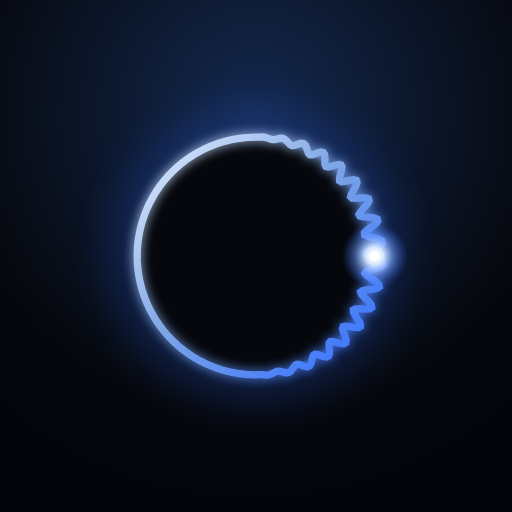
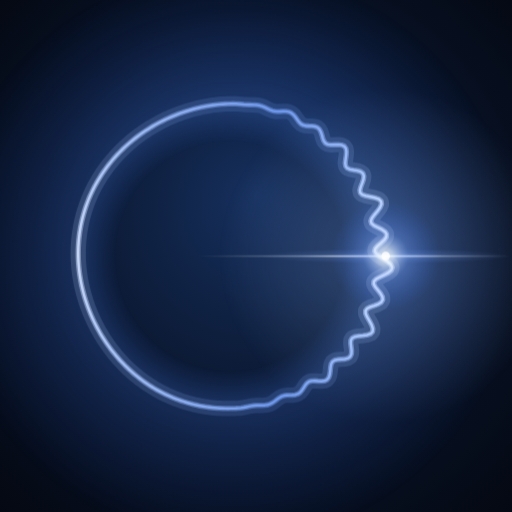
Quasar: ícones e cartão de compartilhamento com a marca nova
Ícones (PWA, iPhone, app de computador e favicon) e o cartão OG agora
mostram a Coroa vazada com o feixe, desenhada pelo motor do Início
(scripts/gerar-marca.cjs, no lugar de capture-og.mjs). Novo
apple-touch-icon.png na raiz; cache dos ícones em v6 e do cartão em v7;
título e descrições com o slogan novo.

Claude-Session: https://claude.ai/code/session_019LNWP3nDrWFdCsUiU72wjj

diff --git a/products/nossom/app/layout.tsx b/products/nossom/app/layout.tsx
@@ -5,7 +5,7 @@ import BrandIntro from '@/components/brand-intro';
 import PlayerBar from '@/components/player-bar';
 export const metadata: Metadata = {
   metadataBase: new URL('https://quasar.absolutezro.com'),
-  title: { default: 'Quasar Audio Lab — Do ruído ao pronto.', template: '%s · Quasar' },
+  title: { default: 'Quasar Audio Lab — O som encontrando o seu espaço.', template: '%s · Quasar' },
   description:
     'Do áudio gravado ao áudio pronto para entregar. Trate, mixe e finalize seu som em um estúdio que acompanha o seu fluxo.',
   applicationName: 'Quasar Audio Lab',
@@ -13,23 +13,23 @@ export const metadata: Metadata = {
   manifest: '/manifest.webmanifest',
   appleWebApp: { capable: true, title: 'Quasar', statusBarStyle: 'black-translucent' },
   icons: {
-    icon: [{ url: '/pwa/icon-64.png?v=5', sizes: '64x64', type: 'image/png' }],
-    apple: [{ url: '/pwa/icon-180.png?v=5', sizes: '180x180', type: 'image/png' }],
+    icon: [{ url: '/pwa/icon-64.png?v=6', sizes: '64x64', type: 'image/png' }],
+    apple: [{ url: '/pwa/icon-180.png?v=6', sizes: '180x180', type: 'image/png' }],
   },
   openGraph: {
     type: 'website',
     locale: 'pt_BR',
     siteName: 'Quasar Audio Lab',
-    title: 'Quasar Audio Lab — Do ruído ao pronto.',
+    title: 'Quasar Audio Lab — O som encontrando o seu espaço.',
     description:
       'Crie, trate e entregue seu áudio. Seu estúdio com inteligência artificial, em um só lugar.',
     url: 'https://quasar.absolutezro.com',
   },
   twitter: {
     card: 'summary_large_image',
-    title: 'Quasar Audio Lab — Do ruído ao pronto.',
+    title: 'Quasar Audio Lab — O som encontrando o seu espaço.',
     description: 'Crie, trate e entregue seu áudio. O som encontrando o seu espaço.',
-    images: ['/opengraph-image?v=6'],
+    images: ['/opengraph-image?v=7'],
   },
 };
 export const viewport: Viewport = {

diff --git a/products/nossom/app/manifest.ts b/products/nossom/app/manifest.ts
@@ -12,9 +12,9 @@ export default function manifest(): MetadataRoute.Manifest {
     background_color: '#080e16',
     theme_color: '#080e16',
     icons: [
-      { src: '/pwa/icon-192.png?v=5', sizes: '192x192', type: 'image/png', purpose: 'any' },
-      { src: '/pwa/icon-512.png?v=5', sizes: '512x512', type: 'image/png', purpose: 'any' },
-      { src: '/pwa/icon-512.png?v=5', sizes: '512x512', type: 'image/png', purpose: 'maskable' },
+      { src: '/pwa/icon-192.png?v=6', sizes: '192x192', type: 'image/png', purpose: 'any' },
+      { src: '/pwa/icon-512.png?v=6', sizes: '512x512', type: 'image/png', purpose: 'any' },
+      { src: '/pwa/icon-512.png?v=6', sizes: '512x512', type: 'image/png', purpose: 'maskable' },
     ],
   };
 }

diff --git a/products/nossom/app/opengraph-image.tsx b/products/nossom/app/opengraph-image.tsx
@@ -1,6 +1,7 @@
 import { readFile } from 'node:fs/promises';
 import path from 'node:path';
-export const alt = 'Quasar Audio Lab — Do ruído ao pronto. Limpe sua voz, isole vocais e crie.';
+export const alt =
+  'Quasar Audio Lab — O som encontrando o seu espaço. Limpe sua voz, isole vocais e crie.';
 export const size = { width: 1200, height: 630 };
 export const contentType = 'image/png';
 // O cartão com a marca. Fica fora de public/ (o produto está fechado: o nome não pode ser baixado por qualquer um); só

diff --git a/products/nossom/tests/e2e/install-navigation.spec.ts b/products/nossom/tests/e2e/install-navigation.spec.ts
@@ -86,7 +86,7 @@ test('manifest, Apple icon and social metadata serve real correctly sized images
   );
   await expect(page.locator('link[rel="apple-touch-icon"]')).toHaveAttribute(
     'href',
-    '/pwa/icon-180.png?v=5',
+    '/pwa/icon-180.png?v=6',
   );
   await expect(page.locator('meta[property="og:image"]')).toHaveAttribute(
     'content',

diff --git a/docs/validation.md b/docs/validation.md
@@ -4525,6 +4525,12 @@ SOBEDESCE de computador, que disparam os instaladores).
 
 ## Quasar · abertura com a marca nova (02/11/2026)
 
+- Ícones (`public/pwa/icon-*.png`, usados também pelo app de computador e pelo iPhone, `public/icon.svg`, o novo
+  `public/apple-touch-icon.png`) e o cartão de compartilhamento (`marca-fechada/og-site.png`) redesenhados com a Coroa
+  vazada e o feixe, pelo novo `scripts/gerar-marca.cjs` (desenha com o motor do Início; substitui `capture-og.mjs`).
+  Cache dos ícones em `?v=6`, cartão em `?v=7`; título e descrições com o slogan "O som encontrando o seu espaço.".
+  e2e `install-navigation`, `zro-access`, `liquid-site` e `homepage-demo`: 9 passaram (7 pulados por `RELEASE=closed`).
+
 - A onda 3D antiga (`components/ai-motion.tsx`, removido) ainda aparecia no aviso de processamento ("Seu áudio está na
   fila"), na janela do assistente e no fundo da tela de conta: agora é a Coroa viva (`QuasarIA`), pensando no aviso.
   e2e `cloud-restoration`, `studio`, `assistant-flow`, `agent`, `login-page`, `account` e `ai-motion-performance`:
